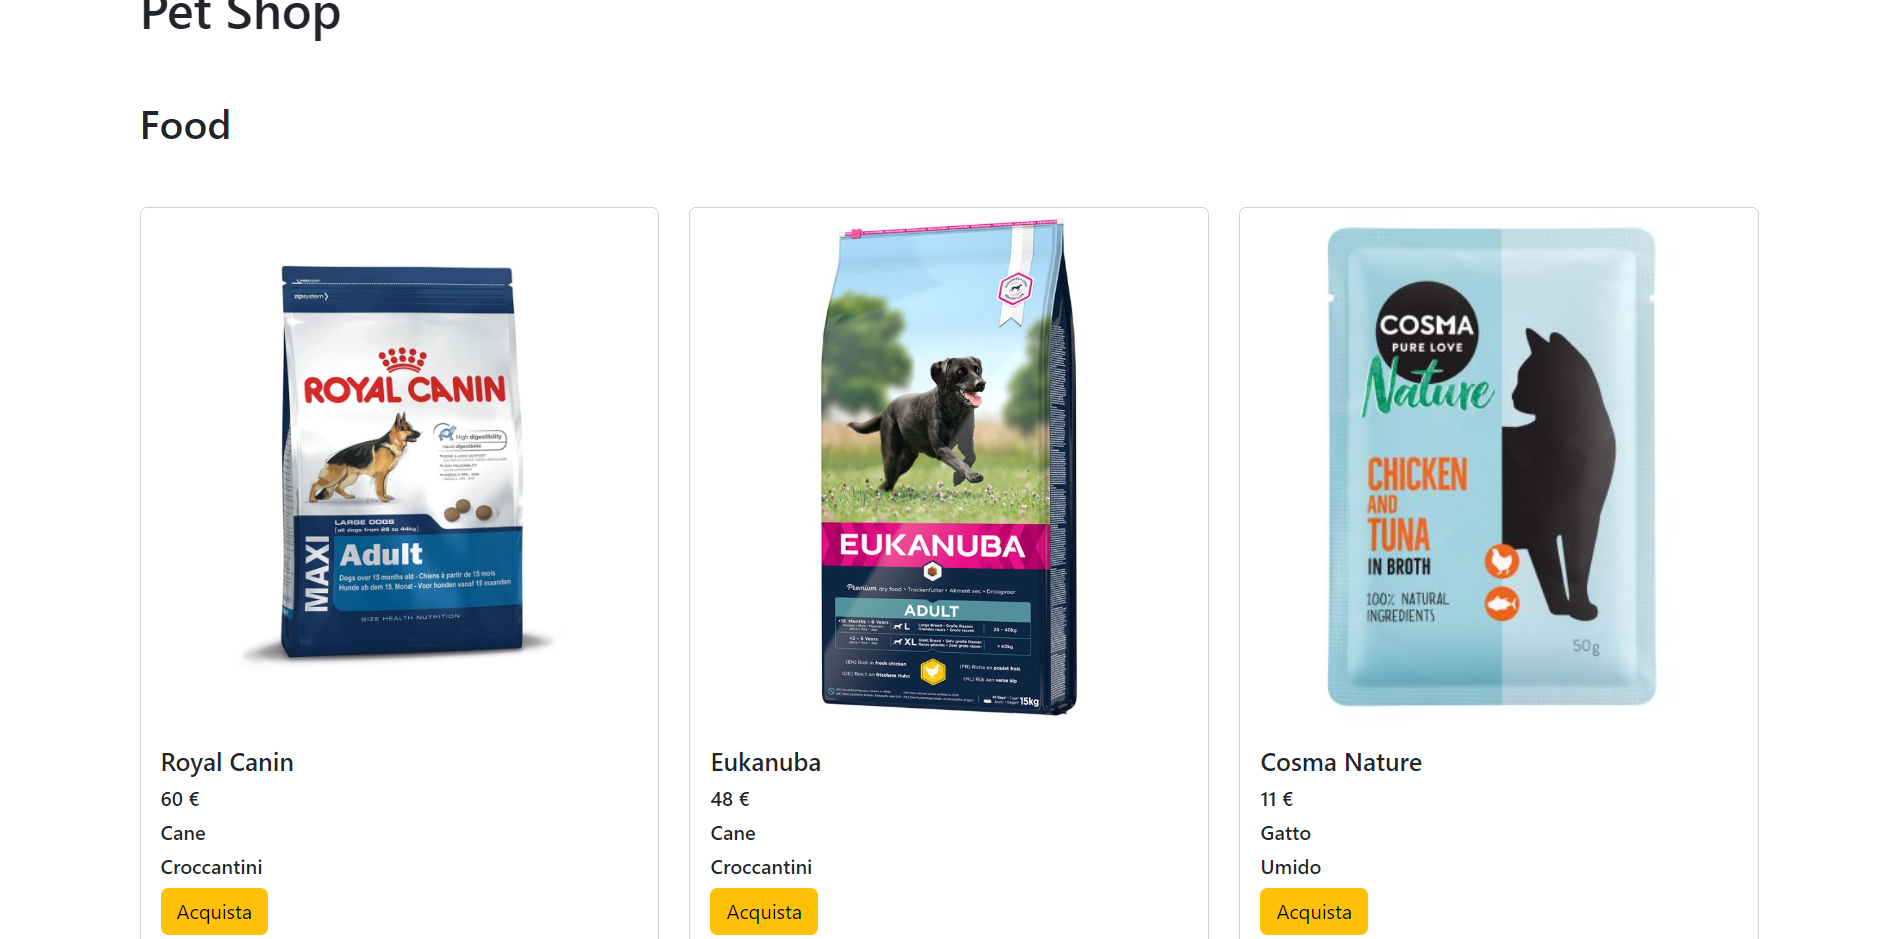
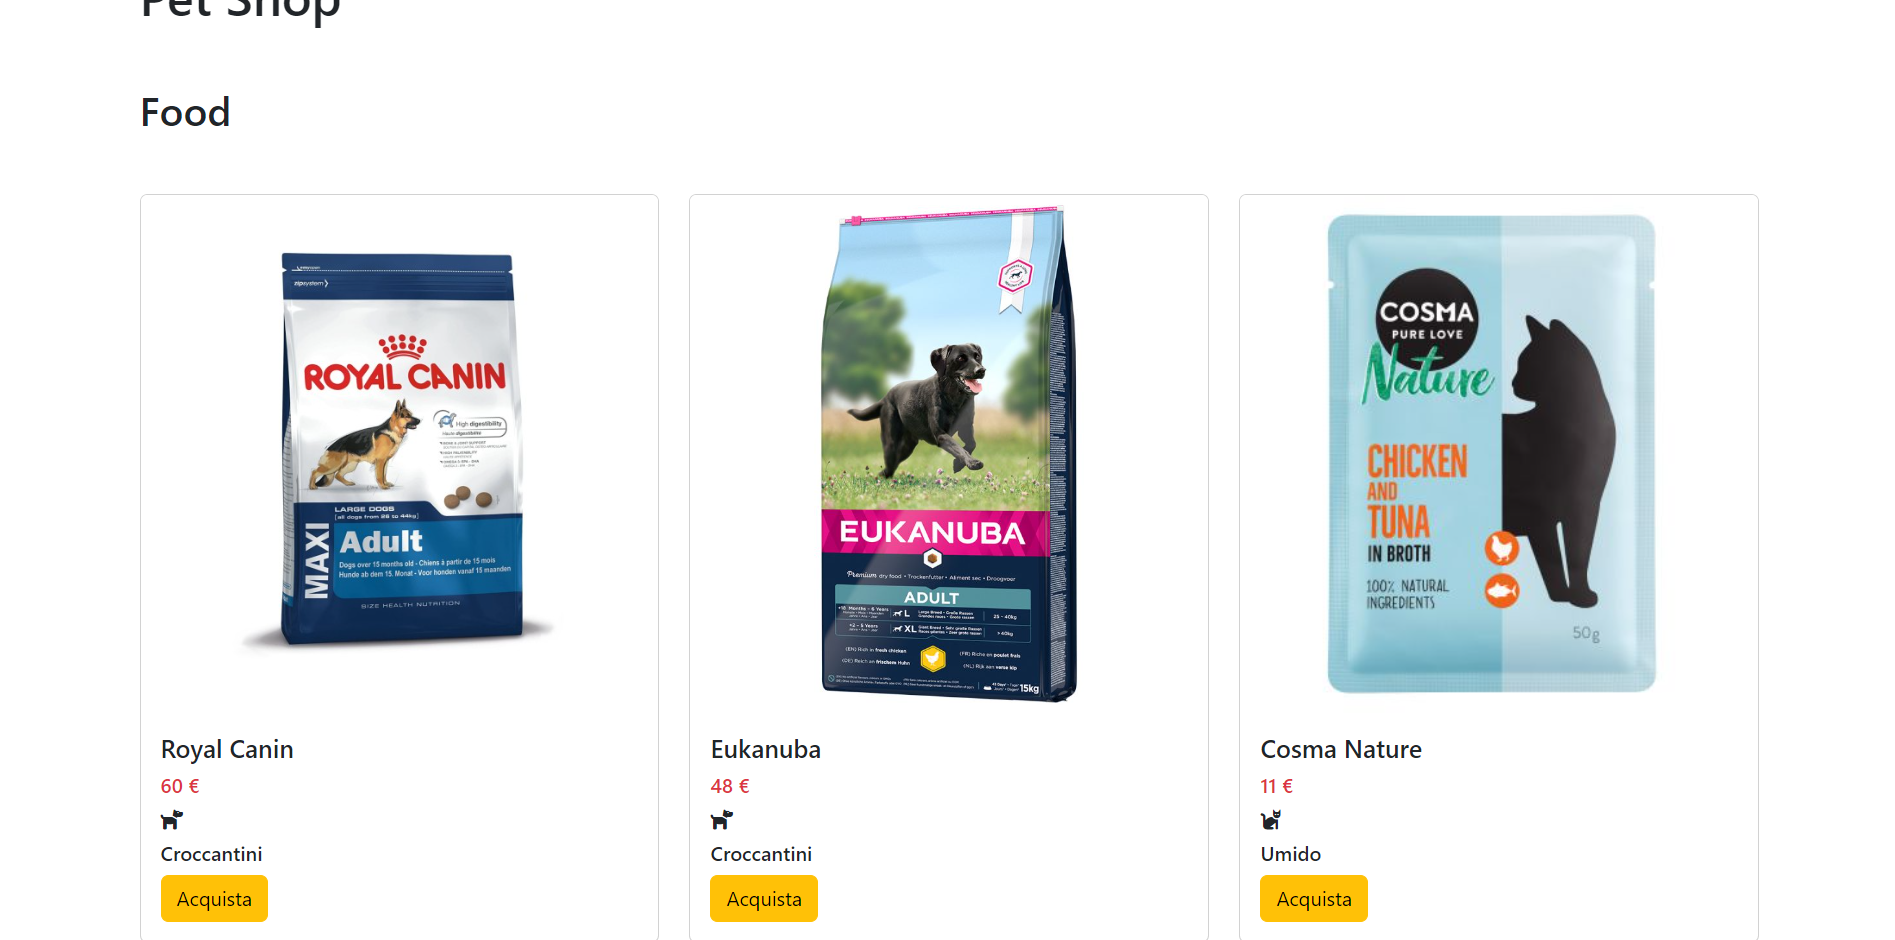
fixes variable visibility

diff --git a/models/Product.php b/models/Product.php
@@ -5,15 +5,24 @@ require_once __DIR__ . "/Category.php";
 class Product{
     public $title;
     public $poster;
-    public $price;
+    protected $price;
     public $category;
 
     public function __construct(string $_title, string $_poster, int $_price, Category $_category)
     {
         $this->title = $_title;
         $this->poster = $_poster;
-        $this->price = $_price;
+        $this->setPrice($_price);
         $this->category = $_category;
+    }
+    public function setPrice($price) {
+        if (!is_numeric($price) || $price <= 0) return false;
+
+        $this->price = $price;
+    }
+
+    public function getPrice() {
+        return $this->price;
     }
 };
 

diff --git a/template/food_card.php b/template/food_card.php
@@ -5,8 +5,8 @@
             <h5 class="card-title">
                 <?= $food_product->title ?>
             </h5>
-            <h6 class="card-text">
-                <?= $food_product->price  ?> €
+            <h6 class="card-text text-danger">
+                <?= $food_product->getPrice()  ?> €
             </h6>
             <h6 class="card-text">
                 <?= $food_product->category->icon ?>

diff --git a/template/game_card.php b/template/game_card.php
@@ -5,8 +5,8 @@
             <h5 class="card-title">
                 <?= $game_product->title ?>
             </h5>
-            <h6 class="card-text">
-                <?= $game_product->price  ?> €
+            <h6 class="card-text text-danger">
+                <?= $game_product->getPrice()  ?> €
             </h6>
             <h6 class="card-text">
                 <?= $game_product->category->icon ?>

diff --git a/template/bed_card.php b/template/bed_card.php
@@ -5,8 +5,8 @@
             <h5 class="card-title">
                 <?= $bed_product->title ?>
             </h5>
-            <h6 class="card-text">
-                <?= $bed_product->price  ?> €
+            <h6 class="card-text text-danger">
+                <?= $bed_product->getPrice()  ?> €
             </h6>
             <h6 class="card-text">
                 <?= $bed_product->category->icon ?>
